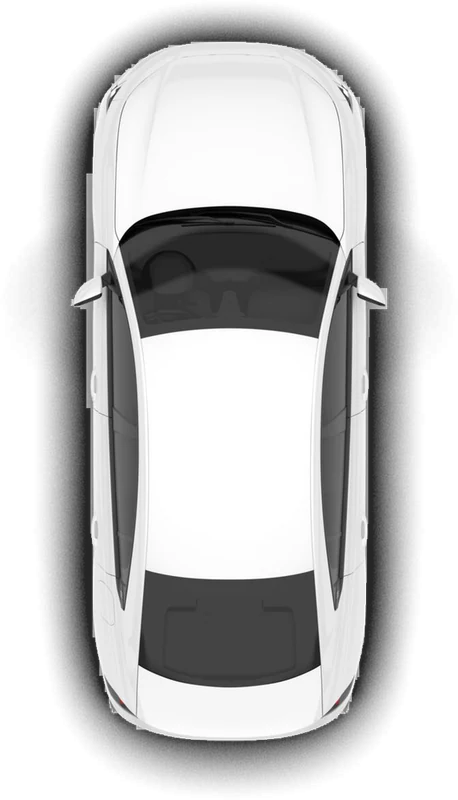
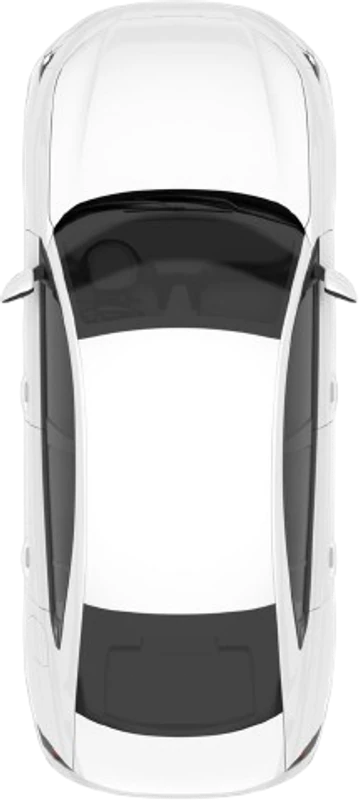
feat(sound): smooth car picture, speaker badges with level waves following the balance

diff --git a/emulator/components/CarTop.tsx b/emulator/components/CarTop.tsx
@@ -1,26 +1,64 @@
 import type { ListeningSeat } from "../car/bridge";
 
-/** The car picture's own pixels (images/car-top.webp, front at the top); everything below is placed on them. */
-export const CAR_VIEW = { w: 458, h: 800 };
+/** The drawing's space: the car picture (images/car-top.webp, 359x800, front at the top) with room beside it for the speakers. */
+export const CAR_VIEW = { w: 459, h: 800 };
+const PICTURE = { x: 50, w: 359 };
 
 /** The four seats under the roof, in the processor's speaker order. */
 export const CAR_SEATS: { id: ListeningSeat; x: number; y: number; w: number; h: number }[] = [
-  { id: "FRONT_LEFT", x: 162, y: 344, w: 60, h: 84 },
-  { id: "FRONT_RIGHT", x: 238, y: 344, w: 60, h: 84 },
-  { id: "REAR_LEFT", x: 162, y: 470, w: 60, h: 84 },
-  { id: "REAR_RIGHT", x: 238, y: 470, w: 60, h: 84 },
+  { id: "FRONT_LEFT", x: 172, y: 336, w: 54, h: 80 },
+  { id: "FRONT_RIGHT", x: 234, y: 336, w: 54, h: 80 },
+  { id: "REAR_LEFT", x: 172, y: 464, w: 54, h: 80 },
+  { id: "REAR_RIGHT", x: 234, y: 464, w: 54, h: 80 },
 ];
-/** A speaker in each door. */
-export const CAR_SPEAKERS = [[94, 376], [364, 376], [94, 504], [364, 504]];
+/** A speaker by each door, just outside the body, so the four read at a glance. */
+export const CAR_SPEAKERS = [[24, 382], [435, 382], [24, 512], [435, 512]];
+
+/** How loud each speaker plays for a balance and fader (−7..7 each): 1 in the centre, down towards 0 away from it. */
+export function speakerLevels(balance: number, fader: number): number[] {
+  const left = balance > 0 ? 1 - balance / 7 : 1, right = balance < 0 ? 1 + balance / 7 : 1;
+  const front = fader < 0 ? 1 + fader / 7 : 1, rear = fader > 0 ? 1 - fader / 7 : 1;
+  return [left * front, right * front, left * rear, right * rear];
+}
+
+/** A speaker badge: grille, cone and dust cap, with sound waves towards the cabin as loud as it plays. */
+function Speaker({ cx, cy, level, side }: { cx: number; cy: number; level: number; side: 1 | -1 }) {
+  const wave = (r: number) => {
+    const a = Math.PI / 4.2;
+    const x1 = cx + side * r * Math.cos(a), y1 = cy - r * Math.sin(a), y2 = cy + r * Math.sin(a);
+    return `M${x1} ${y1} A${r} ${r} 0 0 ${side > 0 ? 1 : 0} ${x1} ${y2}`;
+  };
+  return (
+    <g className="car-speaker" style={{ opacity: 0.35 + 0.65 * level }}>
+      <circle cx={cx} cy={cy} r="25" className="spk-ring" />
+      <circle cx={cx} cy={cy} r="19" fill="url(#spk-cone)" />
+      <circle cx={cx} cy={cy} r="13" className="spk-surround" />
+      <circle cx={cx} cy={cy} r="6.5" fill="url(#spk-cap)" />
+      {level > 0.02 && <path d={wave(33)} className="spk-wave" style={{ opacity: level }} />}
+      {level > 0.5 && <path d={wave(42)} className="spk-wave" style={{ opacity: (level - 0.5) * 2 }} />}
+    </g>
+  );
+}
 
 /**
  * The car from above: the picture, with the seats drawn over its roof (lit where the sound is focused) and a speaker
  * on each door. One static image, drawn once.
  */
-export function CarTop({ lit }: { lit?: (seat: ListeningSeat) => boolean }) {
+export function CarTop({ lit, levels = [1, 1, 1, 1] }: { lit?: (seat: ListeningSeat) => boolean; levels?: number[] }) {
   return (
     <svg className="car-top" viewBox={`0 0 ${CAR_VIEW.w} ${CAR_VIEW.h}`} aria-hidden="true">
-      <image href="/images/car-top.webp" x="0" y="0" width={CAR_VIEW.w} height={CAR_VIEW.h} />
+      <defs>
+        <radialGradient id="spk-cone" cx="40%" cy="35%" r="70%">
+          <stop offset="0" stopColor="#5b616b" />
+          <stop offset="0.6" stopColor="#2a2e34" />
+          <stop offset="1" stopColor="#15171a" />
+        </radialGradient>
+        <radialGradient id="spk-cap" cx="35%" cy="30%" r="75%">
+          <stop offset="0" stopColor="#c9ced6" />
+          <stop offset="1" stopColor="#4a4f57" />
+        </radialGradient>
+      </defs>
+      <image href="/images/car-top.webp" x={PICTURE.x} y="0" width={PICTURE.w} height={CAR_VIEW.h} />
       {CAR_SEATS.map((s) => {
         const on = lit?.(s.id) ?? false;
         return (
@@ -31,12 +69,7 @@ export function CarTop({ lit }: { lit?: (seat: ListeningSeat) => boolean }) {
           </g>
         );
       })}
-      {CAR_SPEAKERS.map(([cx, cy]) => (
-        <g key={`${cx}-${cy}`} className="car-speaker">
-          <circle cx={cx} cy={cy} r="13" />
-          <circle cx={cx} cy={cy} r="5" />
-        </g>
-      ))}
+      {CAR_SPEAKERS.map(([cx, cy], i) => <Speaker key={i} cx={cx} cy={cy} level={levels[i]} side={i % 2 ? -1 : 1} />)}
     </svg>
   );
 }

diff --git a/emulator/styles/sound.css b/emulator/styles/sound.css
@@ -73,13 +73,16 @@
 
 /* the car from above: balance and listening position draw on it */
 .snd-stage { grid-template-columns: 288px minmax(0, 1fr); padding: 16px 32px; }
-.snd-cabin { width: 288px; height: 503px; border-radius: 0; }
+.snd-cabin { width: 289px; height: 503px; border-radius: 0; }
 .car-top { position: absolute; inset: 0; width: 100%; height: 100%; overflow: visible; }
 /* seats drawn faintly on the roof, lit blue where the sound is focused */
 .car-seat rect { fill: rgba(30, 34, 40, 0.07); stroke: rgba(30, 34, 40, 0.22); stroke-width: 1.5; transition: fill 200ms var(--seamless), stroke 200ms var(--seamless); }
 .car-seat.is-lit rect { fill: rgba(10, 132, 255, 0.78); stroke: #0a84ff; }
-.car-speaker circle:first-child { fill: #1c1e22; stroke: rgba(255, 255, 255, 0.9); stroke-width: 2.5; }
-.car-speaker circle:last-child { fill: rgba(255, 255, 255, 0.85); }
+/* speakers: a grille ring, the cone, its surround and dust cap; waves towards the cabin as loud as it plays */
+.car-speaker { transition: opacity 200ms var(--seamless); }
+.spk-ring { fill: #101215; stroke: rgba(255, 255, 255, 0.28); stroke-width: 2; }
+.spk-surround { fill: none; stroke: rgba(0, 0, 0, 0.55); stroke-width: 2.5; }
+.spk-wave { fill: none; stroke: var(--set-blue); stroke-width: 3.5; stroke-linecap: round; transition: opacity 200ms var(--seamless); }
 .snd-axis.is-x { left: 16%; right: 16%; }
 .snd-axis.is-y { top: 5%; bottom: 5%; }
 .snd-seat-hit { width: auto; height: auto; }
@@ -94,8 +97,8 @@
 .set-detail.is-fit .snd-band-track { height: 150px; }
 
 /* balance: the pad over the cabin, from door to door and from the front seats' fronts to the rear seats' backs */
-.snd-pad { position: absolute; left: 21%; width: 58%; top: 39%; height: 34%; touch-action: none; cursor: crosshair; border-radius: 16px; }
+.snd-pad { position: absolute; left: 30%; width: 40%; top: 41%; height: 30%; touch-action: none; cursor: crosshair; border-radius: 16px; }
 .snd-pad:focus-visible { outline: 2px solid var(--set-blue); outline-offset: 4px; }
-.snd-pad .snd-axis.is-x { left: -12%; right: -12%; }
-.snd-pad .snd-axis.is-y { top: -60%; bottom: -60%; }
+.snd-pad .snd-axis.is-x { left: -30%; right: -30%; }
+.snd-pad .snd-axis.is-y { top: -130%; bottom: -90%; }
 .snd-pad.is-dragging .snd-dot { transition: none; }

diff --git a/emulator/components/SoundApp.tsx b/emulator/components/SoundApp.tsx
@@ -1,7 +1,7 @@
 import { useMemo, useRef, useState, type KeyboardEvent, type PointerEvent } from "react";
 import { bridge, type EqPreset, type ListeningSeat, type SoundSettings, type SpeakerFilter } from "../car/bridge";
 import { setSound, shellAction, useEmulator } from "../car/store";
-import { CAR_SEATS, CAR_VIEW, CarTop } from "./CarTop";
+import { CAR_SEATS, CAR_VIEW, CarTop, speakerLevels } from "./CarTop";
 import { useCloseOntoCard } from "./media";
 import { Group, Row, Segmented, Switch } from "./SettingsApp";
 
@@ -170,7 +170,7 @@ function Balance({ s }: { s: SoundSettings }) {
   return (
     <div className="snd-stage">
       <div className="snd-cabin is-static">
-        <CarTop />
+        <CarTop levels={speakerLevels(s.balance, s.fader)} />
         {/* the pad covers the cabin, so the centre falls between the two rows of seats */}
         <div ref={pad} className={`snd-pad${dragging ? " is-dragging" : ""}`} role="slider" tabIndex={0} aria-label="Balance and fader" aria-valuetext={summary("balance", s)}
           onPointerDown={down} onPointerMove={move} onPointerUp={() => setDragging(false)} onPointerCancel={() => setDragging(false)} onKeyDown={key}>
